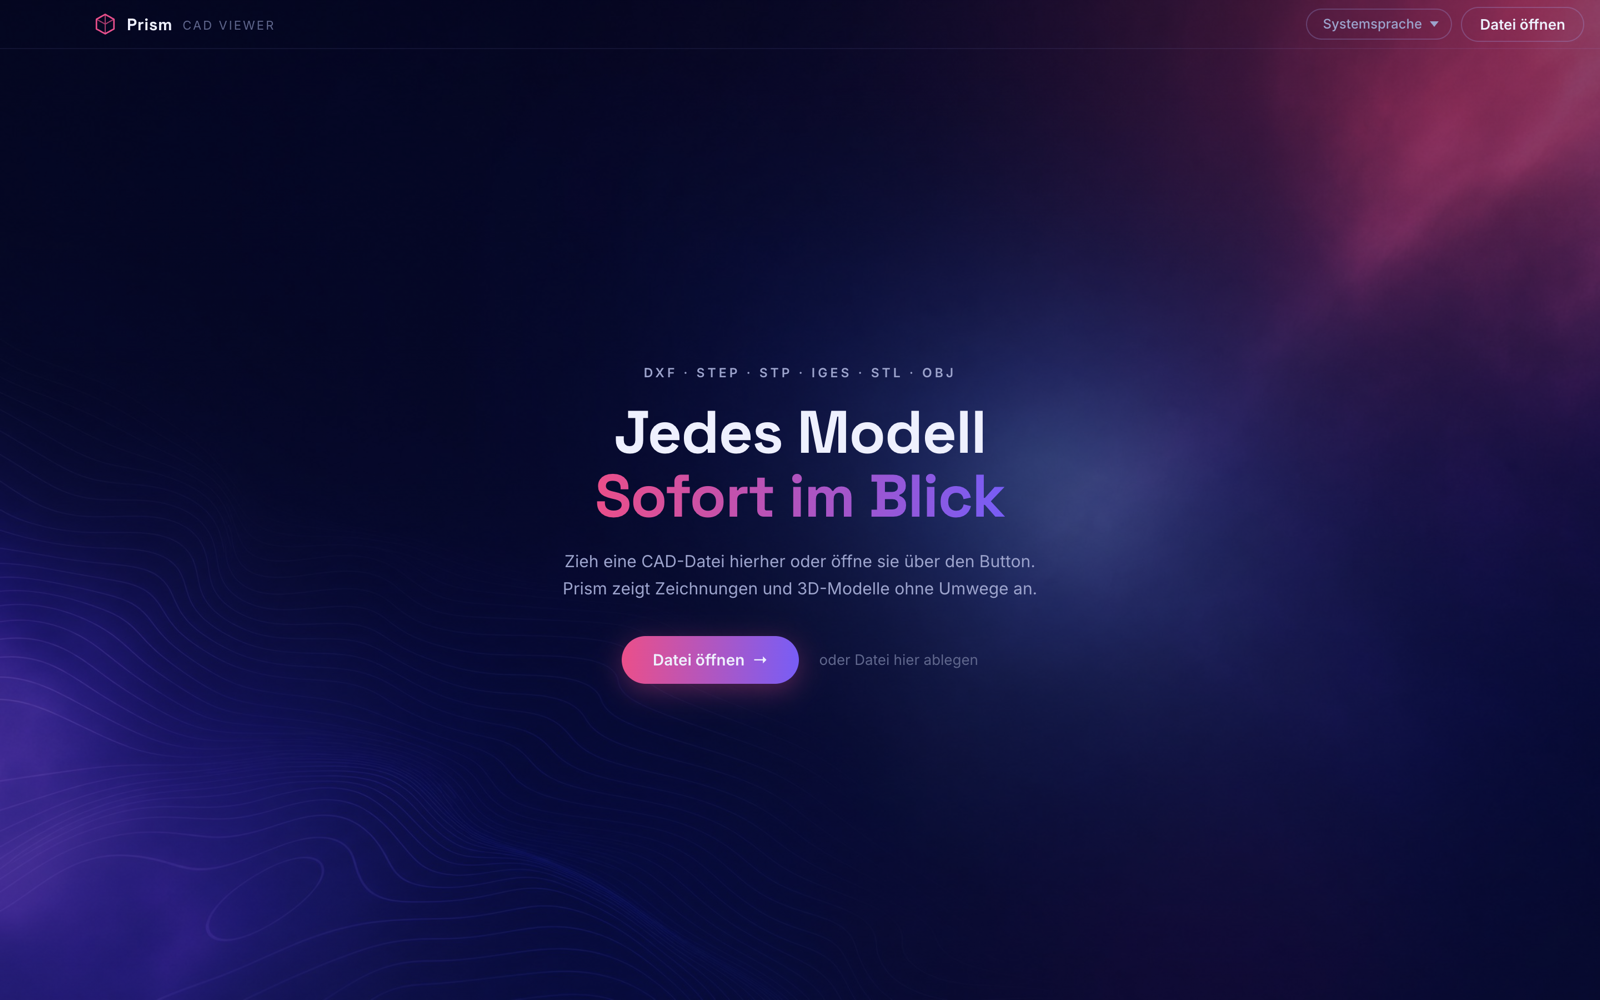
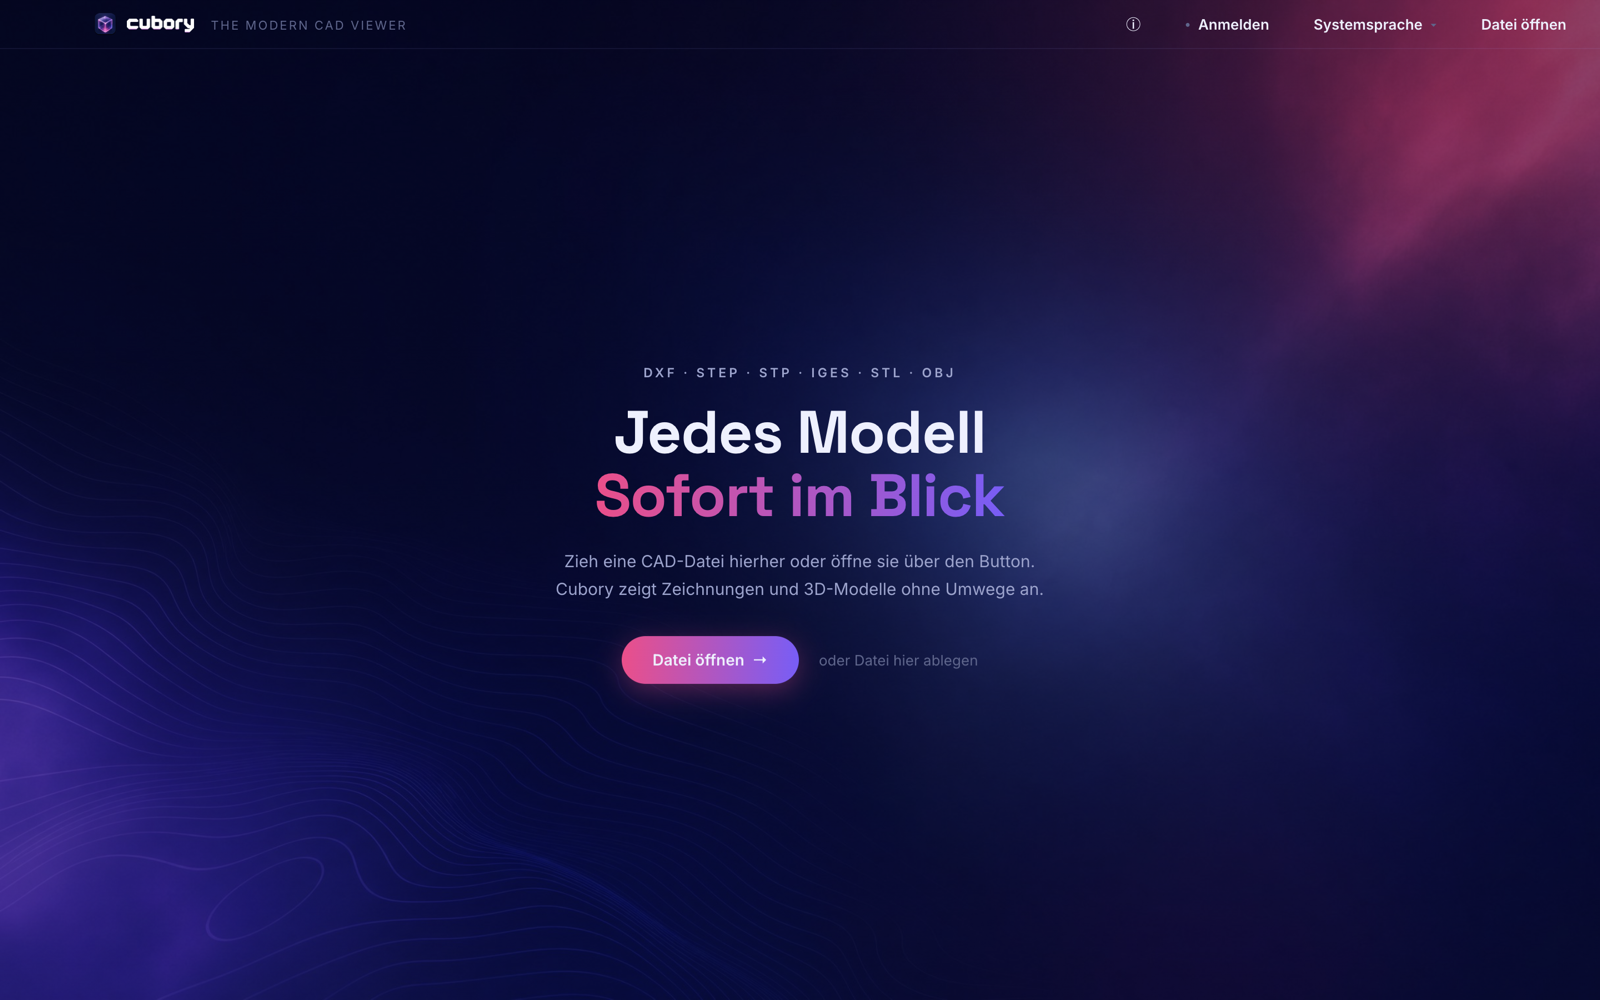
OG-Share-Bild (1200×630, aus Brand-Template gerendert) + aktuelle README-Screenshots
og:image/twitter:card auf assets/og.png; docs/-Screenshots zeigen den
Cubory-Stand statt Verixa.

diff --git a/website/index.html b/website/index.html
@@ -9,7 +9,11 @@
 <meta property="og:title" content="Cubory - The modern CAD viewer" />
 <meta property="og:description" content="DXF, STEP, IGES, STL & OBJ öffnen - auf Mac, Windows und Linux, komplett offline. Free für immer." />
 <meta property="og:url" content="https://cubory.app/" />
-<meta property="og:image" content="https://cubory.app/assets/icon.png" />
+<meta property="og:image" content="https://cubory.app/assets/og.png" />
+<meta property="og:image:width" content="1200" />
+<meta property="og:image:height" content="630" />
+<meta name="twitter:card" content="summary_large_image" />
+<meta name="twitter:image" content="https://cubory.app/assets/og.png" />
 <meta name="description" content="Cubory öffnet Zeichnungen und 3D-Modelle ohne Umwege - DXF, STEP, STP, IGES, STL, OBJ. Free für immer, Pro für Messen, Schnitt, Explosion und Export." />
 <link rel="stylesheet" href="/assets/fonts/fonts.css" />
 <style>
